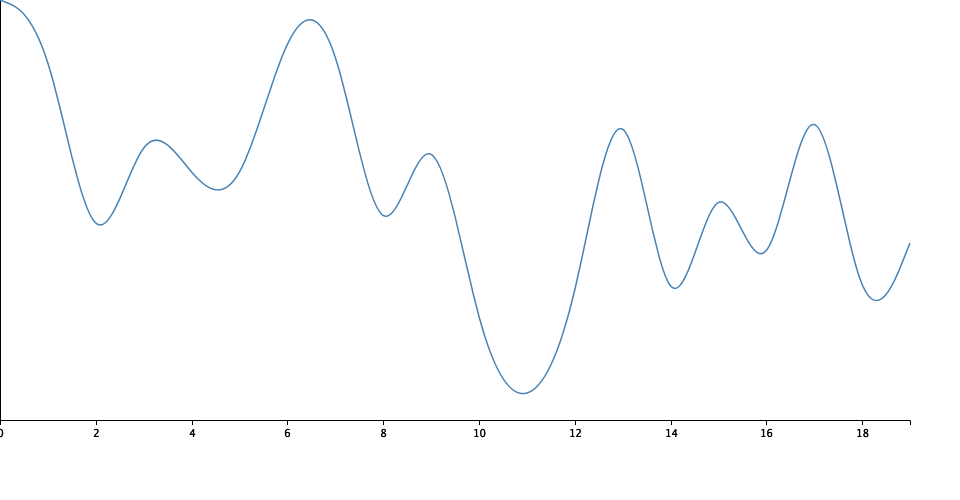
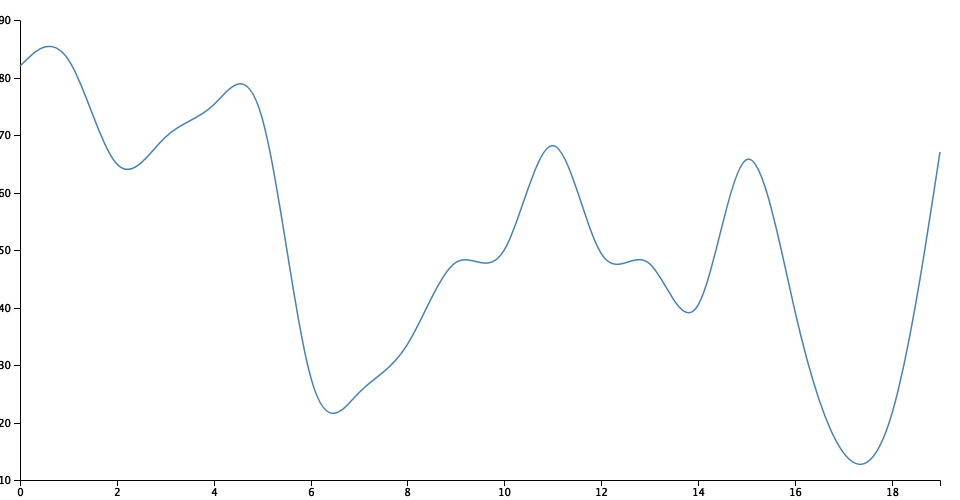
improve axis

diff --git a/example/output.html b/example/output.html
@@ -1,5 +1,5 @@
 <html><head></head><body><div id="container">
       <h2>Line Chart</h2>
-      <div id="chart"><svg xmlns="http://www.w3.org/2000/svg" width="960" height="500"><g transform="translate(30, 20)"></g><g><g transform="translate(0, 420)" fill="none" font-size="10" font-family="sans-serif" text-anchor="middle"><path class="domain" stroke="#000" d="M0.5000,5V0.5000H910.5000V5"></path><g class="tick" opacity="1" transform="translate(0,0)"><line stroke="#000" y2="5" x1="0.5" x2="0.5"></line><text fill="#000" y="10" x="0.5" dy="0.71em">0</text></g><g class="tick" opacity="1" transform="translate(96,0)"><line stroke="#000" y2="5" x1="0.5" x2="0.5"></line><text fill="#000" y="10" x="0.5" dy="0.71em">2</text></g><g class="tick" opacity="1" transform="translate(192,0)"><line stroke="#000" y2="5" x1="0.5" x2="0.5"></line><text fill="#000" y="10" x="0.5" dy="0.71em">4</text></g><g class="tick" opacity="1" transform="translate(287,0)"><line stroke="#000" y2="5" x1="0.5" x2="0.5"></line><text fill="#000" y="10" x="0.5" dy="0.71em">6</text></g><g class="tick" opacity="1" transform="translate(383,0)"><line stroke="#000" y2="5" x1="0.5" x2="0.5"></line><text fill="#000" y="10" x="0.5" dy="0.71em">8</text></g><g class="tick" opacity="1" transform="translate(479,0)"><line stroke="#000" y2="5" x1="0.5" x2="0.5"></line><text fill="#000" y="10" x="0.5" dy="0.71em">10</text></g><g class="tick" opacity="1" transform="translate(575,0)"><line stroke="#000" y2="5" x1="0.5" x2="0.5"></line><text fill="#000" y="10" x="0.5" dy="0.71em">12</text></g><g class="tick" opacity="1" transform="translate(671,0)"><line stroke="#000" y2="5" x1="0.5" x2="0.5"></line><text fill="#000" y="10" x="0.5" dy="0.71em">14</text></g><g class="tick" opacity="1" transform="translate(766,0)"><line stroke="#000" y2="5" x1="0.5" x2="0.5"></line><text fill="#000" y="10" x="0.5" dy="0.71em">16</text></g><g class="tick" opacity="1" transform="translate(862,0)"><line stroke="#000" y2="5" x1="0.5" x2="0.5"></line><text fill="#000" y="10" x="0.5" dy="0.71em">18</text></g></g><g fill="none" font-size="10" font-family="sans-serif" text-anchor="end"><path class="domain" stroke="#000" d="M-5,420.5000H0.5000V0.5000H-5"></path><g class="tick" opacity="1" transform="translate(0,420)"><line stroke="#000" x2="-5" y1="0.5" y2="0.5"></line><text fill="#000" x="-10" y="0.5" dy="0.32em">10</text></g><g class="tick" opacity="1" transform="translate(0,372)"><line stroke="#000" x2="-5" y1="0.5" y2="0.5"></line><text fill="#000" x="-10" y="0.5" dy="0.32em">20</text></g><g class="tick" opacity="1" transform="translate(0,325)"><line stroke="#000" x2="-5" y1="0.5" y2="0.5"></line><text fill="#000" x="-10" y="0.5" dy="0.32em">30</text></g><g class="tick" opacity="1" transform="translate(0,277)"><line stroke="#000" x2="-5" y1="0.5" y2="0.5"></line><text fill="#000" x="-10" y="0.5" dy="0.32em">40</text></g><g class="tick" opacity="1" transform="translate(0,229)"><line stroke="#000" x2="-5" y1="0.5" y2="0.5"></line><text fill="#000" x="-10" y="0.5" dy="0.32em">50</text></g><g class="tick" opacity="1" transform="translate(0,181)"><line stroke="#000" x2="-5" y1="0.5" y2="0.5"></line><text fill="#000" x="-10" y="0.5" dy="0.32em">60</text></g><g class="tick" opacity="1" transform="translate(0,134)"><line stroke="#000" x2="-5" y1="0.5" y2="0.5"></line><text fill="#000" x="-10" y="0.5" dy="0.32em">70</text></g><g class="tick" opacity="1" transform="translate(0,86)"><line stroke="#000" x2="-5" y1="0.5" y2="0.5"></line><text fill="#000" x="-10" y="0.5" dy="0.32em">80</text></g><g class="tick" opacity="1" transform="translate(0,38)"><line stroke="#000" x2="-5" y1="0.5" y2="0.5"></line><text fill="#000" x="-10" y="0.5" dy="0.32em">90</text></g></g><path fill="none" stroke="steelblue" stroke-width="1.5" d="M0,0L8,3.1667C16,6.3333,32,12.6667,48,63.5000C64,114.3333,80,209.6667,96,223.1667C112,236.6667,128,168.3333,144,147.6667C160,127,176,154,191.8333,172.3333C207.6667,190.6667,223.3333,200.3333,239.1667,172.5000C255,144.6667,271,79.3333,287,45.1667C303,11,319,8,335,56.5000C351,105,367,205,383,215.3333C399,225.6667,415,146.3333,431,154.3333C447,162.3333,463,257.6667,479,316.5000C495,375.3333,511,397.6667,527,393C543,388.3333,559,356.6667,575,289C591,221.3333,607,117.6667,623,129.5000C639,141.3333,655,268.6667,670.8333,286.1667C686.6667,303.6667,702.3333,211.3333,718.1667,202.6667C734,194,750,269,766,250.8333C782,232.6667,798,121.3333,814,124.5000C830,127.6667,846,245.3333,862,284.1667C878,323,894,283,902,263L910,243"></path></g></svg></div>
+      <div id="chart"><svg xmlns="http://www.w3.org/2000/svg" width="960" height="500"><g transform="translate(20, 20)"><g><g transform="translate(0, 460)" fill="none" font-size="10" font-family="sans-serif" text-anchor="middle"><path class="domain" stroke="#000" d="M0.5000,6V0.5000H920.5000V6"></path><g class="tick" opacity="1" transform="translate(0,0)"><line stroke="#000" y2="6" x1="0.5" x2="0.5"></line><text fill="#000" y="9" x="0.5" dy="0.71em">0</text></g><g class="tick" opacity="1" transform="translate(97,0)"><line stroke="#000" y2="6" x1="0.5" x2="0.5"></line><text fill="#000" y="9" x="0.5" dy="0.71em">2</text></g><g class="tick" opacity="1" transform="translate(194,0)"><line stroke="#000" y2="6" x1="0.5" x2="0.5"></line><text fill="#000" y="9" x="0.5" dy="0.71em">4</text></g><g class="tick" opacity="1" transform="translate(291,0)"><line stroke="#000" y2="6" x1="0.5" x2="0.5"></line><text fill="#000" y="9" x="0.5" dy="0.71em">6</text></g><g class="tick" opacity="1" transform="translate(387,0)"><line stroke="#000" y2="6" x1="0.5" x2="0.5"></line><text fill="#000" y="9" x="0.5" dy="0.71em">8</text></g><g class="tick" opacity="1" transform="translate(484,0)"><line stroke="#000" y2="6" x1="0.5" x2="0.5"></line><text fill="#000" y="9" x="0.5" dy="0.71em">10</text></g><g class="tick" opacity="1" transform="translate(581,0)"><line stroke="#000" y2="6" x1="0.5" x2="0.5"></line><text fill="#000" y="9" x="0.5" dy="0.71em">12</text></g><g class="tick" opacity="1" transform="translate(678,0)"><line stroke="#000" y2="6" x1="0.5" x2="0.5"></line><text fill="#000" y="9" x="0.5" dy="0.71em">14</text></g><g class="tick" opacity="1" transform="translate(775,0)"><line stroke="#000" y2="6" x1="0.5" x2="0.5"></line><text fill="#000" y="9" x="0.5" dy="0.71em">16</text></g><g class="tick" opacity="1" transform="translate(872,0)"><line stroke="#000" y2="6" x1="0.5" x2="0.5"></line><text fill="#000" y="9" x="0.5" dy="0.71em">18</text></g></g><g fill="none" font-size="10" font-family="sans-serif" text-anchor="end"><path class="domain" stroke="#000" d="M-6,460.5000H0.5000V0.5000H-6"></path><g class="tick" opacity="1" transform="translate(0,460)"><line stroke="#000" x2="-6" y1="0.5" y2="0.5"></line><text fill="#000" x="-9" y="0.5" dy="0.32em">10</text></g><g class="tick" opacity="1" transform="translate(0,403)"><line stroke="#000" x2="-6" y1="0.5" y2="0.5"></line><text fill="#000" x="-9" y="0.5" dy="0.32em">20</text></g><g class="tick" opacity="1" transform="translate(0,345)"><line stroke="#000" x2="-6" y1="0.5" y2="0.5"></line><text fill="#000" x="-9" y="0.5" dy="0.32em">30</text></g><g class="tick" opacity="1" transform="translate(0,288)"><line stroke="#000" x2="-6" y1="0.5" y2="0.5"></line><text fill="#000" x="-9" y="0.5" dy="0.32em">40</text></g><g class="tick" opacity="1" transform="translate(0,230)"><line stroke="#000" x2="-6" y1="0.5" y2="0.5"></line><text fill="#000" x="-9" y="0.5" dy="0.32em">50</text></g><g class="tick" opacity="1" transform="translate(0,173)"><line stroke="#000" x2="-6" y1="0.5" y2="0.5"></line><text fill="#000" x="-9" y="0.5" dy="0.32em">60</text></g><g class="tick" opacity="1" transform="translate(0,115)"><line stroke="#000" x2="-6" y1="0.5" y2="0.5"></line><text fill="#000" x="-9" y="0.5" dy="0.32em">70</text></g><g class="tick" opacity="1" transform="translate(0,58)"><line stroke="#000" x2="-6" y1="0.5" y2="0.5"></line><text fill="#000" x="-9" y="0.5" dy="0.32em">80</text></g><g class="tick" opacity="1" transform="translate(0,0)"><line stroke="#000" x2="-6" y1="0.5" y2="0.5"></line><text fill="#000" x="-9" y="0.5" dy="0.32em">90</text></g></g><path fill="none" stroke="steelblue" stroke-width="1.5" d="M0,46L8,38.3333C16,30.6667,32,15.3333,48.1667,39.3333C64.3333,63.3333,80.6667,126.6667,96.8333,144C113,161.3333,129,132.6667,145.1667,117.3333C161.3333,102,177.6667,100,193.8333,84.6667C210,69.3333,226,40.6667,242.1667,98.1667C258.3333,155.6667,274.6667,299.3333,290.8333,357.6667C307,416,323,389,339,372.6667C355,356.3333,371,350.6667,387.1667,324.8333C403.3333,299,419.6667,253,435.8333,242.5000C452,232,468,257,484.1667,230.1667C500.3333,203.3333,516.6667,124.6667,532.8333,125.6667C549,126.6667,565,207.3333,581,233.1667C597,259,613,230,629.1667,243.3333C645.3333,256.6667,661.6667,312.3333,677.8333,285.5000C694,258.6667,710,149.3333,726.1667,139.8333C742.3333,130.3333,758.6667,220.6667,774.8333,290.6667C791,360.6667,807,410.3333,823.1667,432.3333C839.3333,454.3333,855.6667,448.6667,871.8333,394C888,339.3333,904,235.6667,912,183.8333L920,132"></path></g></g></svg></div>
     </div>
   </body></html>

diff --git a/index.js b/index.js
@@ -30,8 +30,6 @@ function line({
   lineWidth: _lineWidth = 1.5,
   lineColor: _lineColor = 'steelblue',
   isCurve: _isCurve = true,
-  tickSize: _tickSize = 5,
-  tickPadding: _tickPadding = 5,
   export: _export = false,
 } = {}) {
   let _d3;
@@ -69,12 +67,6 @@ function line({
         .rangeRound([0, width]);
   const yScale = _d3.scaleLinear()
         .rangeRound([height, 0]);
-  const xAxis = _d3.axisBottom(xScale)
-        .tickSize(_tickSize)
-        .tickPadding(_tickPadding);
-  const yAxis = _d3.axisLeft(yScale)
-        .tickSize(_tickSize)
-        .tickPadding(_tickPadding);
 
   const lineChart = _d3.line()
         .x(d => xScale(d.key))
@@ -87,9 +79,9 @@ function line({
 
   g.append('g')
     .attr('transform', `translate(0, ${height})`)
-    .call(xAxis);
+    .call(_d3.axisBottom(xScale));
 
-  g.append('g').call(yAxis);
+  g.append('g').call(_d3.axisLeft(yScale));
 
   g.append('path')
     .datum(data)
